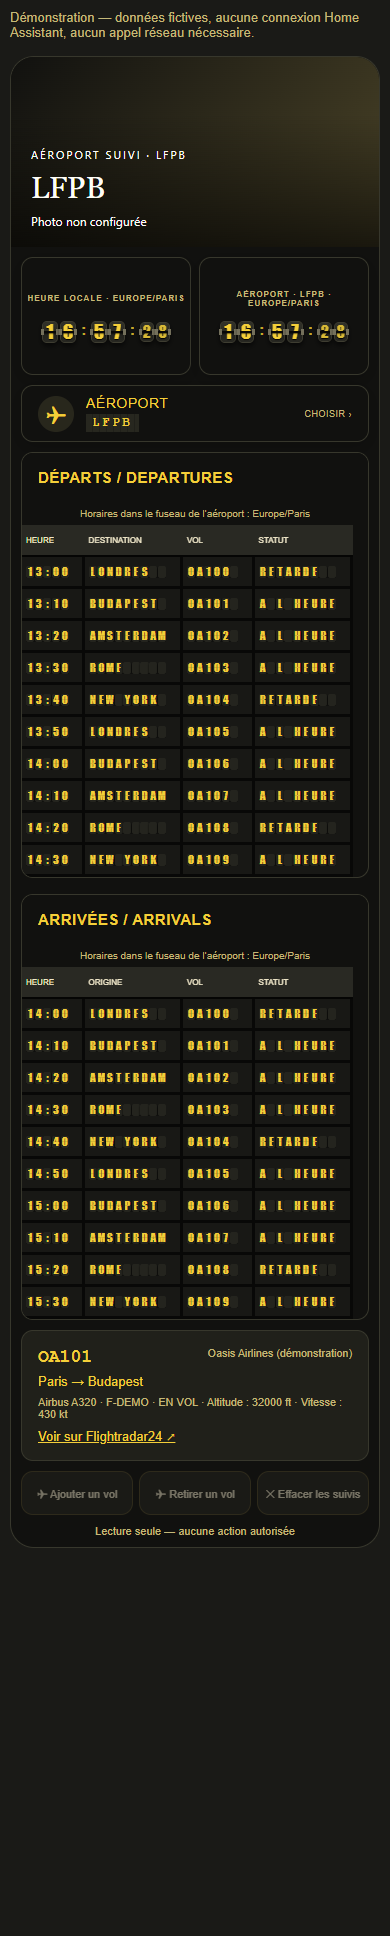
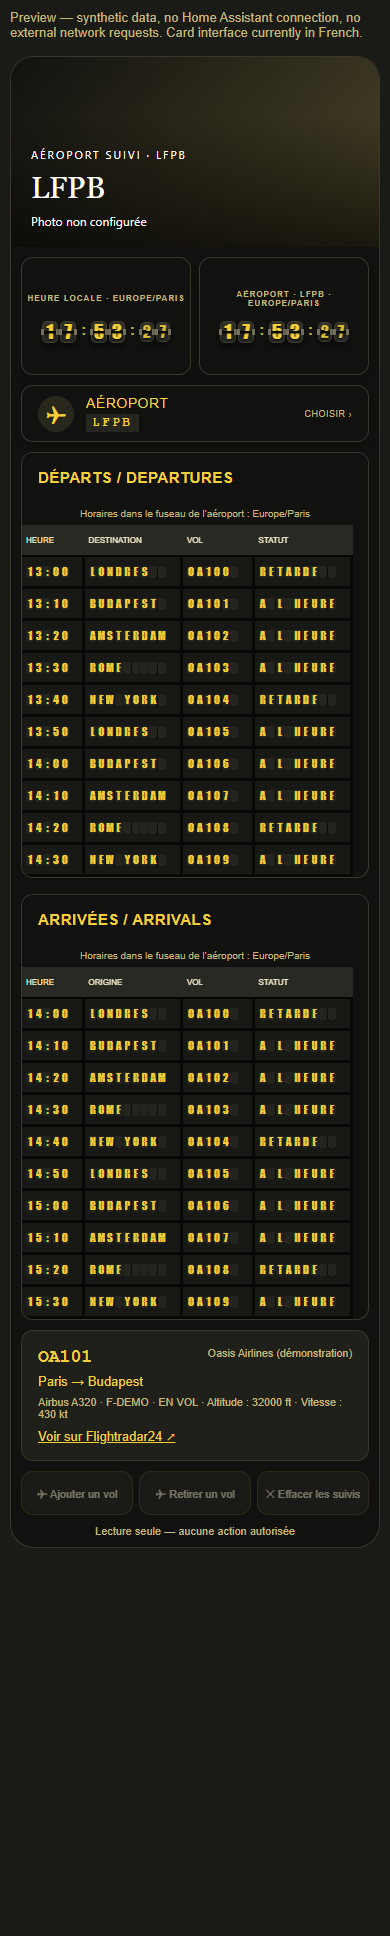
Add public previews and HACS submission checklist

diff --git a/docs/HACS-submission.md b/docs/HACS-submission.md
@@ -1,0 +1,48 @@
+# Default HACS catalog submission preparation
+
+This is a preparation checklist, not an approval or an already-submitted request.
+
+Repository: https://github.com/JustKidding49/oasis-flightradar-card
+Category: Dashboard (`plugin` in the HACS backend).
+Maintainer/owner: JustKidding49. License: GPL-3.0-only.
+
+## Before submitting
+
+1. Publish the English README, embedded public previews and `.github/workflows/validate.yml`.
+2. Verify the HACS action succeeds with `category: plugin`, without `ignore` or disabled checks. Record the successful run URL.
+3. Publish a NEW complete release after that successful action, attaching `oasis-flightradar-card.js` built from the corresponding source tag. Existing v0.1.1 predates the validation workflow and does not satisfy this chronology.
+4. Confirm the repository is public, active, has issues enabled, a description/topics, root `hacs.json`, and a matching JS filename in `dist` and release assets.
+5. Fork `hacs/default` under the owner's personal account, create a new branch from `master`, and add `JustKidding49/oasis-flightradar-card` to the `plugin` JSON list in alphabetical order. Preserve valid JSON.
+6. Complete the CURRENT upstream PR template truthfully, link the successful run and new release, and allow maintainer edits. Do not request reviews.
+
+Hassfest and integration brand assets do not apply to a dashboard card. This card is not country-restricted. The interface is currently primarily French; English README text does not imply an English UI.
+
+## Draft PR description
+
+Suggested title: `Add JustKidding49/oasis-flightradar-card`
+
+Oasis Flightradar Card is a standalone Home Assistant dashboard card for the Flightradar24 integration. It combines a city banner, browser-local/airport-local clocks, ICAO search, departures/arrivals and followed-flight controls. It is already installable through a custom HACS repository. Public previews use synthetic data; the default configuration is read-only. The original code is licensed GPL-3.0-only.
+
+### Checklist (leave pending items unchecked)
+
+- [x] Publishing documentation reviewed.
+- [ ] HACS action published and passing without ignored checks.
+- [ ] Successful HACS action URL supplied.
+- [ ] New full release published AFTER successful validation.
+- [ ] Release URL supplied.
+- [ ] `hacs/default` plugin entry sorted and JSON validated.
+- [ ] Current upstream PR template completed; maintainer edits enabled.
+
+Successful HACS run: **pending**.
+Post-validation release: **pending**.
+Hassfest: not applicable (Dashboard/plugin).
+
+## References
+
+- https://www.hacs.xyz/docs/publish/start/
+- https://www.hacs.xyz/docs/publish/plugin/
+- https://www.hacs.xyz/docs/publish/action/
+- https://www.hacs.xyz/docs/publish/include/
+- https://github.com/hacs/default/blob/master/.github/PULL_REQUEST_TEMPLATE.md
+
+Requirements reviewed October 3, 2026. Recheck the current template when submitting. Acceptance is decided by HACS maintainers; custom-repository installation does not guarantee inclusion.
